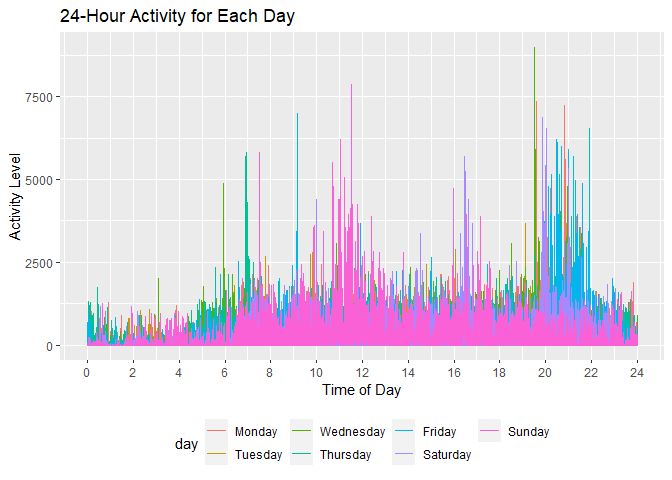
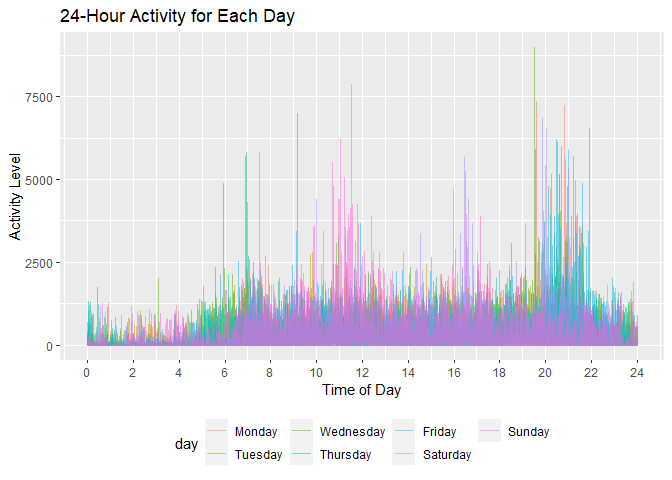
solution for q3

Changed region(s): [[0.125, 0.2188, 0.9688, 0.7188]]

diff --git a/hw3_rmd.md b/hw3_rmd.md
@@ -80,7 +80,7 @@ accel_data %>%
     activity = as.integer(activity)
   ) %>%
   ggplot(aes(x = activity, y = observations, color = day)) +
-  geom_line() +
+  geom_line(alpha = 0.5) +
   scale_x_continuous(
     breaks = c(0, 120, 240, 360, 480, 600, 720, 840, 960, 1080, 1200, 1320, 1440),
     labels = c("0", "2", "4", "6", "8", "10", "12", "14", "16", "18", "20", "22", "24")) +
@@ -105,6 +105,32 @@ ny_data =
   separate(date, into = c("year", "month", "day"), sep = "-")
 ```
 
+``` r
+ny_data =
+  ny_data %>%
+  rename(snow_mm = "snow",
+         prcp_mm = "prcp",
+         snwd_mm = "snwd",
+         tmax_F = "tmax",
+         tmin_F = "tmin")
+```
+
+``` r
+ny_data = 
+  ny_data %>%
+    mutate(tmin_F = as.numeric(tmin_F),
+          tmax_F = as.numeric(tmax_F))
+```
+
+``` r
+df1 = data.frame(ny_data)
+names(which.max(table(df1$snow_mm, useNA = "ifany"))) 
+```
+
+    ## [1] "0"
+
+### 
+
 ### how to ensure that observations for temperature, precipitation, and snowfall are given in reasonable units
 
 ### what are the most commonly observed values? why?
@@ -118,3 +144,42 @@ ny_data =
 
     a. tmax vs. tmin for the full dataset- non-scatter plot
     b. distribution of snowfall values greater than 0 and less than 100 separately by year
+
+``` r
+plot_1 = 
+  ny_data %>%
+  group_by(id, year, month) %>%
+  filter(month %in% c("07","01")) %>%
+  summarize(tmax_mean = mean(tmax_F,na.rm = TRUE, color = id)) %>%
+  ggplot(aes(x = year, y = tmax_mean,group = id)) +
+  geom_point() + geom_path() +
+  facet_grid( ~ month)
+```
+
+    ## `summarise()` has grouped output by 'id', 'year'. You can override using the
+    ## `.groups` argument.
+
+``` r
+plot_1
+```
+
+    ## Warning: Removed 5970 rows containing missing values (geom_point).
+
+    ## Warning: Removed 5931 row(s) containing missing values (geom_path).
+
+![](hw3_rmd_files/figure-gfm/unnamed-chunk-11-1.png)<!-- -->
+
+``` r
+plot2 = 
+  ny_data %>%
+  ggplot(aes(x = tmax_F, y = tmin_F)) +
+  geom_hex()
+
+
+plot3 = 
+  ny_data %>%
+  group_by(id, year, month) %>%
+  filter( snow_mm < 100 & snow_mm > 0) %>%
+  ggplot(aes(x = snow_mm, y = year)) +
+  geom_density_ridges()
+```
